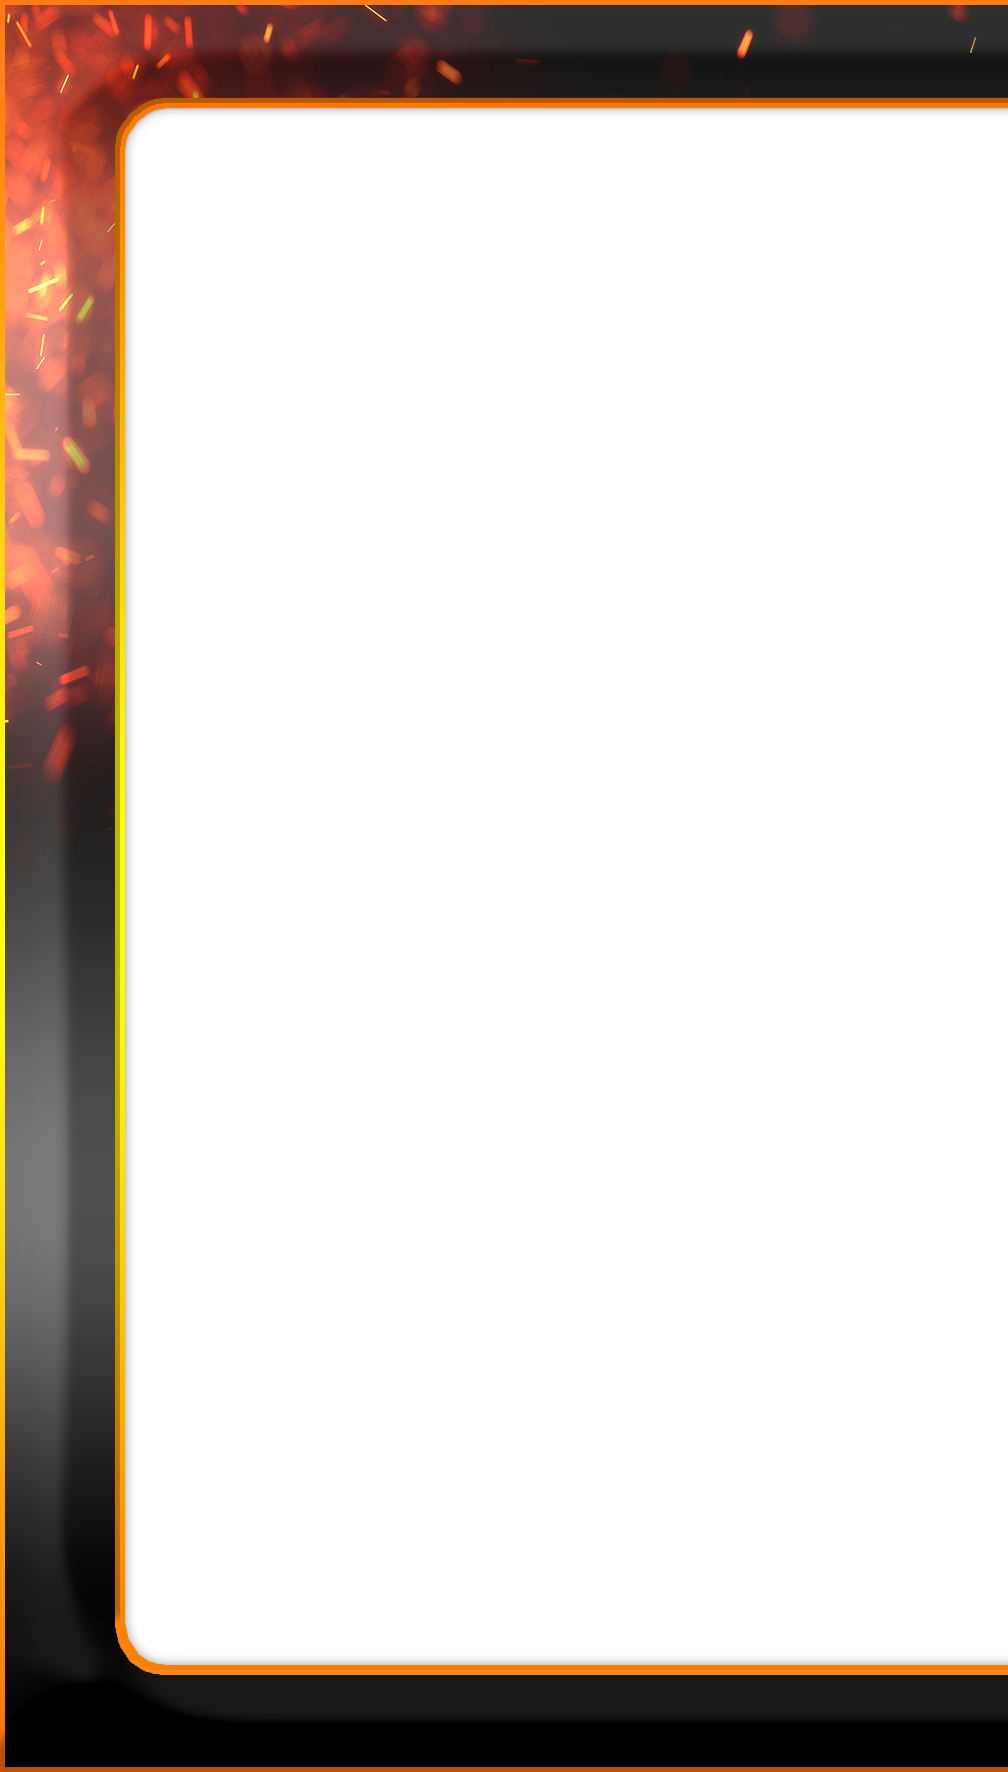
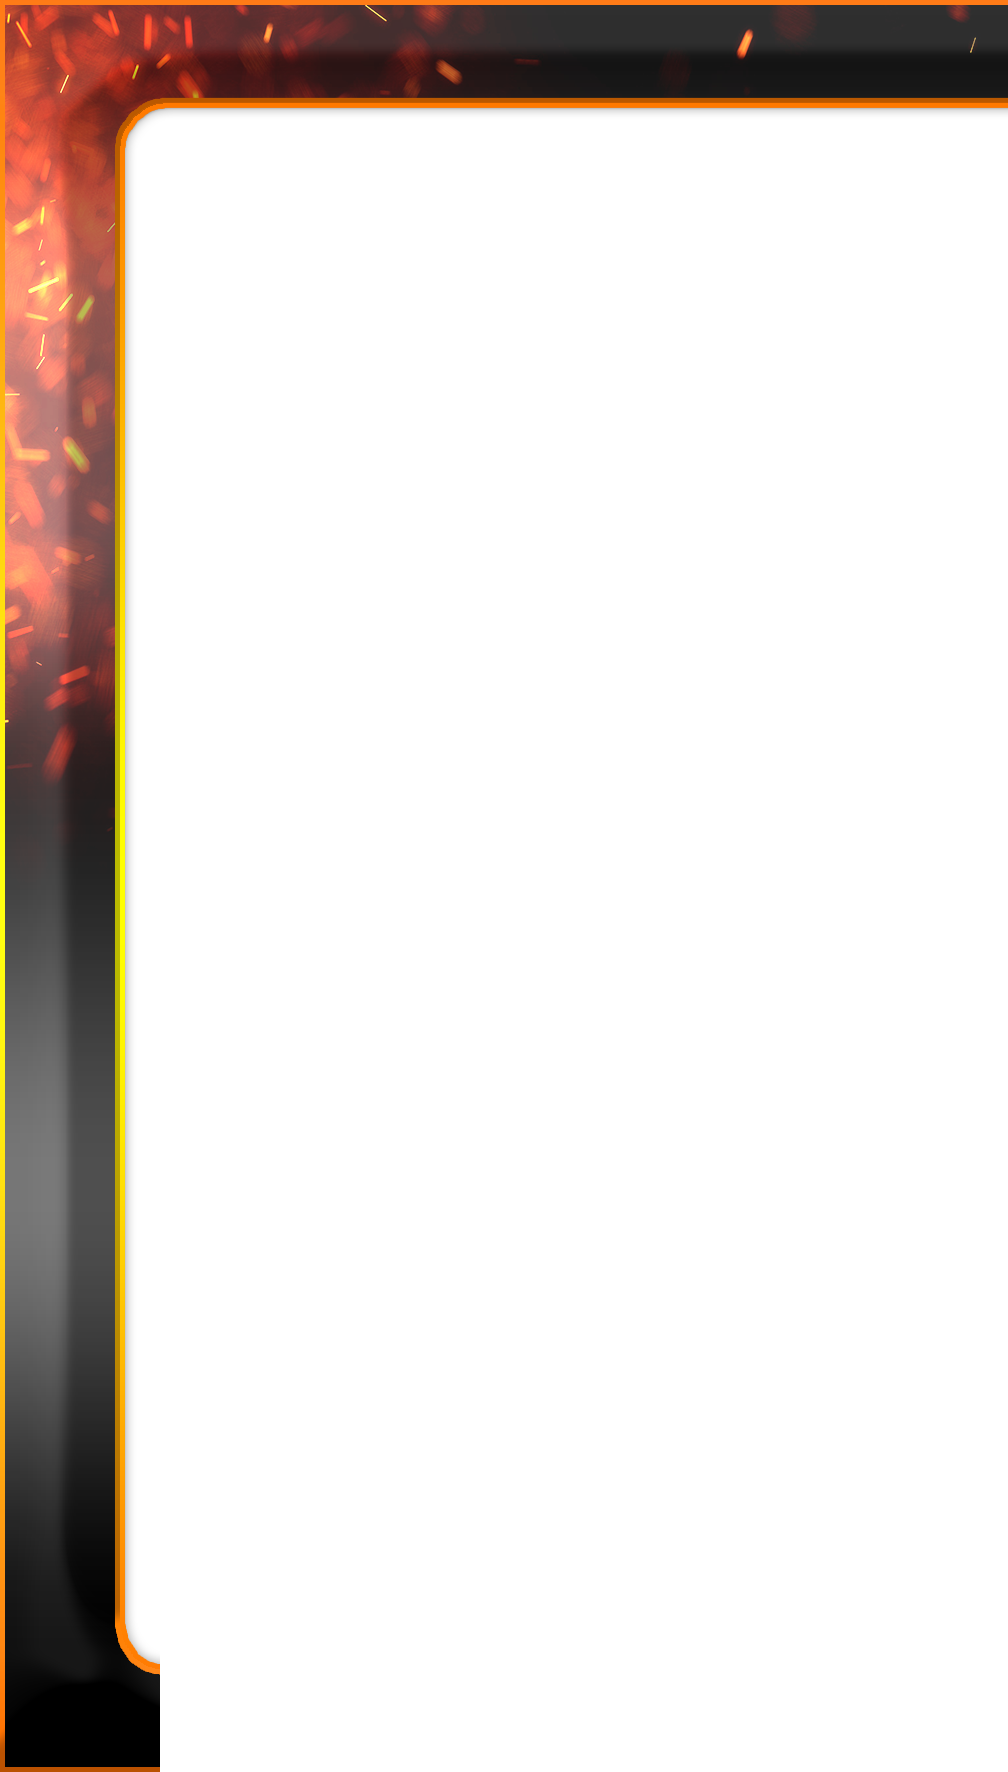
changed frame cuts, completed art controllers

Changed region(s): [[0.1538, 0.9312, 1.0, 1.0]]

diff --git a/index.js b/index.js
@@ -2,7 +2,7 @@ var pq = 0.75; /* preview quality */
 var rq = 2; /* render quality */
 var m = 0.45; /* magnification */
 
-var card, art;
+var card;
 var gemImage, gemGradientData, gemImageData;
 var renderCard;
 
@@ -328,19 +328,20 @@ function getScaledRect(element) {
     return scaled;
 }
 
-function initArt() {
-    var artController = document.getElementById("card-art-controller");
+function initArt(code) {
+    var artController = document.getElementById("card-" + code + "-controller");
+    var art = document.getElementById("card-" + code);
     var circle = document.createElement("div");
     var style = document.createElement("style");
-    var artFile = document.getElementById("art-file");
-    var artPixel = document.getElementById("art-pixel");
-    var artPosition = document.getElementById("art-position");
-    var artWidth = document.getElementById("art-width");
-    var artAngle = document.getElementById("art-angle");
-    var artX = document.getElementById("art-x");
-    var artY = document.getElementById("art-y");
-    var artW = document.getElementById("art-w");
-    var artA = document.getElementById("art-a");
+    var artFile = document.getElementById(code + "-file");
+    var artPixel = document.getElementById(code + "-pixel");
+    var artPosition = document.getElementById(code + "-position");
+    var artWidth = document.getElementById(code + "-width");
+    var artAngle = document.getElementById(code + "-angle");
+    var artX = document.getElementById(code + "-x");
+    var artY = document.getElementById(code + "-y");
+    var artW = document.getElementById(code + "-w");
+    var artA = document.getElementById(code + "-a");
     var mode, artRect0, artCenter, e0, x0, y0, w0, a0;
 
     function bound(input, n) {
@@ -383,7 +384,7 @@ function initArt() {
 
     function onInputArtY() {
         this.value = bound(this, this.value);
-        art.style.top = 1134 - this.value + "px";
+        art.style.top = artController.offsetHeight - this.value + "px";
     }
 
     function onInputArtW() {
@@ -442,7 +443,7 @@ function initArt() {
 
             artX.dispatchEvent(new InputEvent("input"));
             artY.dispatchEvent(new InputEvent("input"));
-            updateCircle(artX.value, 1134 - artY.value, 100);
+            updateCircle(artX.value, artController.offsetHeight - artY.value, 100);
         }
         else if (mode == "width") {
             var r0 = distance(artCenter, e0);
@@ -451,7 +452,7 @@ function initArt() {
             artW.value = Math.max(1, Math.round(w1));
 
             artW.dispatchEvent(new InputEvent("input"));
-            updateCircle(x0, 1134 - y0, r1);
+            updateCircle(x0, artController.offsetHeight - y0, r1);
         }
         else if (mode == "angle") {
             var t0 = angle(artCenter, e0);
@@ -464,7 +465,7 @@ function initArt() {
             artA.value = ((a0 + dt - min) % dm + dm) % dm + min;
 
             artA.dispatchEvent(new InputEvent("input"));
-            updateCircle(x0, 1134 - y0, 100, t1);
+            updateCircle(x0, artController.offsetHeight - y0, 100, t1);
         }
     }
 
@@ -485,7 +486,7 @@ function initArt() {
         };
         updateBounds();
 
-        updateCircle(x0, 1134 - y0, 0);
+        updateCircle(x0, artController.offsetHeight - y0, 0);
         artController.appendChild(circle);
         document.body.appendChild(style);
         window.addEventListener("mouseup", onControlEnd);
@@ -521,6 +522,11 @@ function initArt() {
     artY.dispatchEvent(new InputEvent("input"));
     artW.dispatchEvent(new InputEvent("input"));
     artA.dispatchEvent(new InputEvent("input"));
+}
+
+function initArts() {
+    initArt("icon");
+    initArt("hero");
 }
 
 function initStats() {
@@ -845,11 +851,10 @@ function init() {
     }
 
     card = document.getElementById("card");
-    art = document.getElementById("card-art");
 
     initGemRecolorer();
     initHandle();
-    initArt();
+    initArts();
     initInfo();
     initExport();
 }

diff --git a/index.css b/index.css
@@ -88,44 +88,30 @@ input[type='radio'], input[type='checkbox'], .hidden {
 	top: 72px;
 }
 
-#card-art-controller {
+#card-hero-controller {
 	position: absolute;
-	width: 100%;
-	height: 100%;
+	width: 2480px;
+	height: 1772px;
 	overflow: hidden;
 	cursor: move;
 }
-
-#card-art {
-	position: absolute;
-	width: 756px;
-	left: 378px;
-	top: 567px;
-	transform: translate(-50%, -50%);
-	pointer-events: none;
-}
-#card-art.pixel {
-	image-rendering: crisp-edges;
-	image-rendering: pixelated;
-}
-
 #card-icon-controller {
 	position: absolute;
-	width: 100%;
-	height: 100%;
+	width: 1008px;
+	height: 300px;
 	overflow: hidden;
 	cursor: move;
 }
 
-#card-icon {
+#card-hero, #card-icon {
 	position: absolute;
-	width: 756px;
-	left: 378px;
-	top: 567px;
+	width: 150px; /* unecessary; immediately overwritten */
+	left: 150px; /* unecessary; immediately overwritten */
+	top: 300px; /* unecessary; immediately overwritten */
 	transform: translate(-50%, -50%);
 	pointer-events: none;
 }
-#card-icon.pixel {
+#card-hero.pixel, #card-icon.pixel {
 	image-rendering: crisp-edges;
 	image-rendering: pixelated;
 }
@@ -155,13 +141,14 @@ input[type='radio'], input[type='checkbox'], .hidden {
 	height: 1772px;
 	left: 1008px;
 	top: 0;
+	pointer-events: none;
 }
 
 #card-frame-right {
 	position: absolute;
-	width: 1472px;
+	width: 2320px;
 	height: 1772px;
-	left: 1008px;
+	left: 160px;
 	top: 0;
 	pointer-events: none;
 }
@@ -317,7 +304,23 @@ input[type='radio'], input[type='checkbox'], .hidden {
 	width: 100px;
 }
 
-#tempo{position: absolute; width: 100%; height: 100%; left: 0; top: 0; opacity: 0.2; pointer-events: none;}
+@media (pointer: fine) {
+	#card-icon-controller:hover {
+		box-shadow: inset 0 0 100px black;
+	}
+	#card input[type='text']:hover {
+		outline: 1px dashed gray;
+	}
+	#card input[type='text']:focus {
+		outline: none;
+	}
+	#card .bubble.prospective:after {
+		box-shadow: inset 0 0 6px black;
+	}
+	#card .bubble.checked.prospective:after {
+		background: gray;
+	}
+}
 
 /* Card Resizer */
 

diff --git a/index.php b/index.php
@@ -15,11 +15,11 @@
             <img id="card-frame-left" src="img/leftFrame.png">
             <img id="card-setting" src="img/setting.png">
             <canvas id="card-gem" width="176" height="178"></canvas>
-            <div id="card-icon-controller">
-                <img id="card-icon">
-            </div>
             <div id="card-hero-controller">
                 <img id="card-hero">
+            </div>
+            <div id="card-icon-controller">
+                <img id="card-icon">
             </div>
 
             <img id="card-page" src="img/rightPage.png">
@@ -122,8 +122,6 @@
                 <input type="text" placeholder="Origine">
             </div>
 
-            <!-- <img id="tempo" src="img/areas.jpg"> -->
-
             <div id="handle"></div>
         </div>
 
@@ -150,18 +148,18 @@
             <div class="row">
                 <input id="icon-file" type="file" accept="image/*">
                 <input id="icon-pixel" type="checkbox">
-                <label for="icon-pixel">Pixel Art</label>
+                <label for="icon-pixel">Pixelated</label>
             </div>
             <div class="row">
                 <input id="icon-position" type="radio" name="icon-transform">
                 <label for="icon-position">Posizione</label>
-                X <input id="icon-x" class="jsscrub" type="number" value="378" step="2">
-                Y <input id="icon-y" class="jsscrub" type="number" value="567" step="2">
+                X <input id="icon-x" class="jsscrub" type="number" value="150" step="2">
+                Y <input id="icon-y" class="jsscrub" type="number" value="145" step="2">
             </div>
             <div class="row">
                 <input id="icon-width" type="radio" name="icon-transform">
                 <label for="icon-width">Larghezza</label>
-                <input id="icon-w" class="jsscrub" type="number" value="756" min="1" step="2"> px
+                <input id="icon-w" class="jsscrub" type="number" value="200" min="1" step="2"> px
             </div>
             <div class="row">
                 <input id="icon-angle" type="radio" name="icon-transform">
@@ -173,18 +171,18 @@
             <div class="row">
                 <input id="hero-file" type="file" accept="image/*">
                 <input id="hero-pixel" type="checkbox">
-                <label for="hero-pixel">Pixel Art</label>
+                <label for="hero-pixel">Pixelated</label>
             </div>
             <div class="row">
                 <input id="hero-position" type="radio" name="hero-transform">
                 <label for="hero-position">Posizione</label>
-                X <input id="hero-x" class="jsscrub" type="number" value="378" step="2">
-                Y <input id="hero-y" class="jsscrub" type="number" value="567" step="2">
+                X <input id="hero-x" class="jsscrub" type="number" value="566" step="2">
+                Y <input id="hero-y" class="jsscrub" type="number" value="886" step="2">
             </div>
             <div class="row">
                 <input id="hero-width" type="radio" name="hero-transform">
                 <label for="hero-width">Larghezza</label>
-                <input id="hero-w" class="jsscrub" type="number" value="756" min="1" step="2"> px
+                <input id="hero-w" class="jsscrub" type="number" value="1132" min="1" step="2"> px
             </div>
             <div class="row">
                 <input id="hero-angle" type="radio" name="hero-transform">
